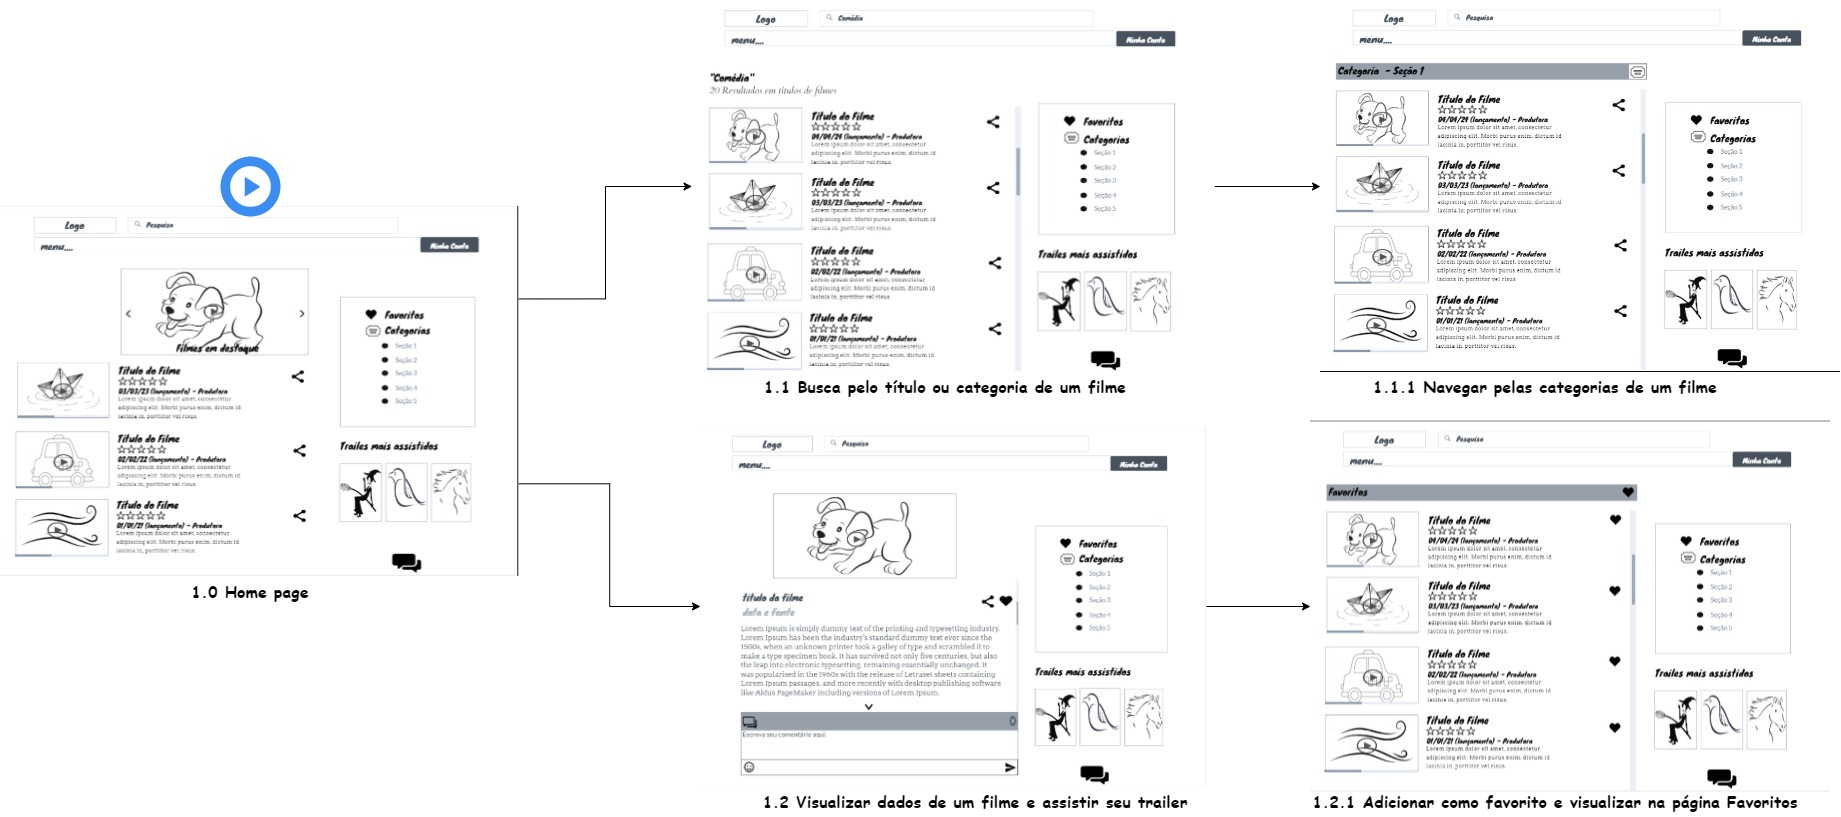
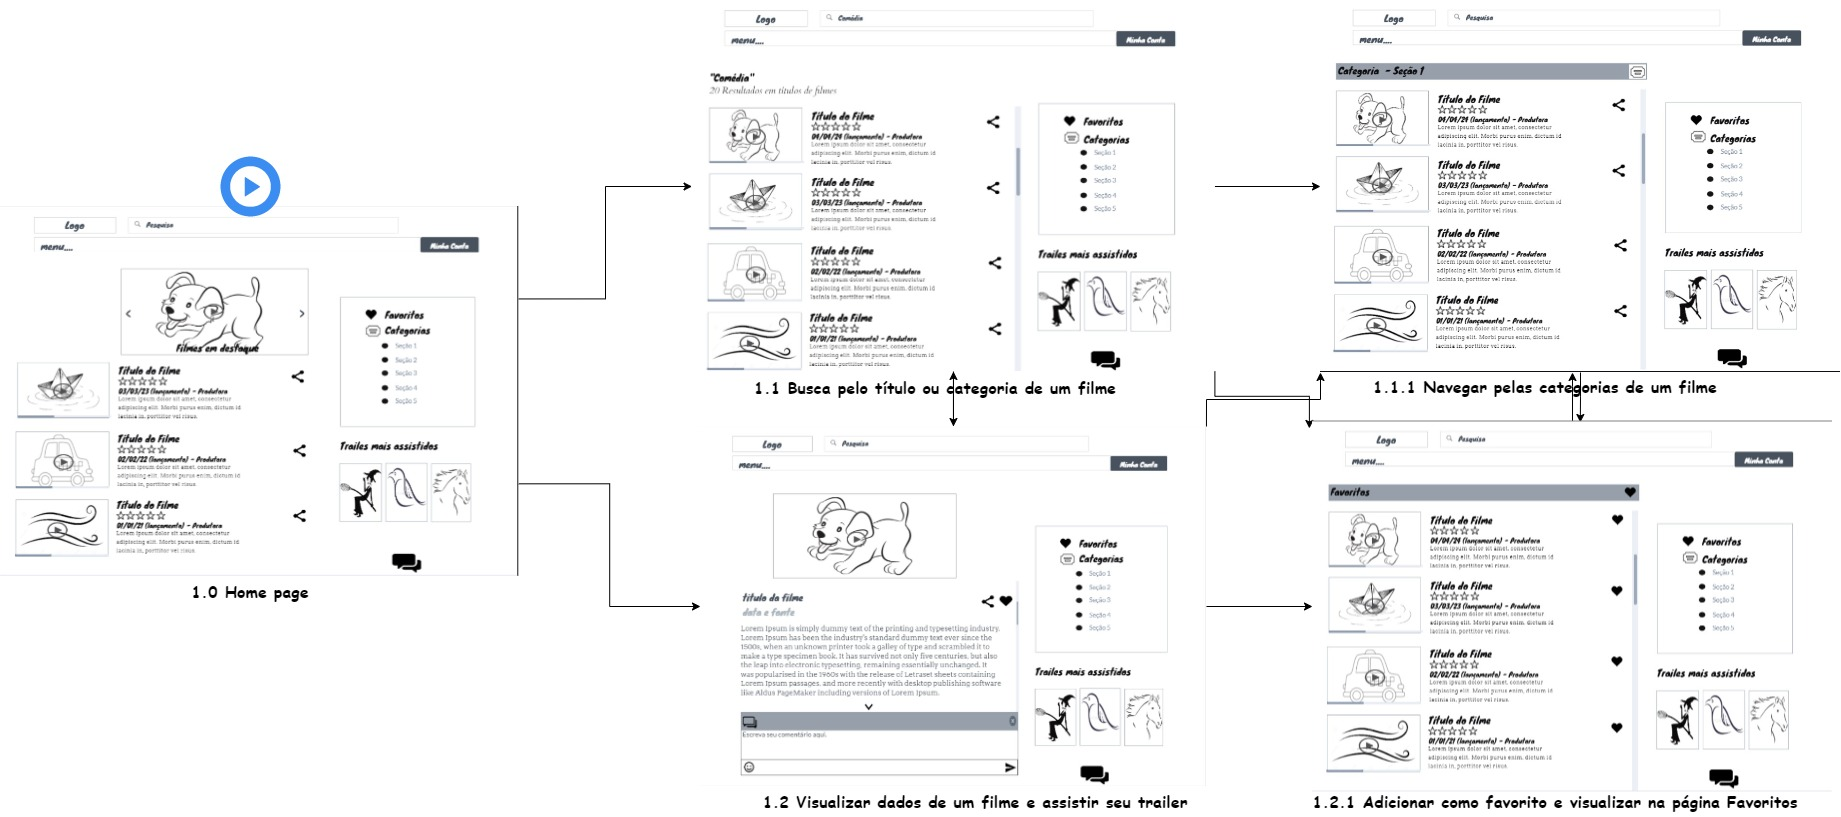
parte 05 fluxo do usuario

diff --git a/docs/05-Arquitetura da Solução.md b/docs/05-Arquitetura da Solução.md
@@ -28,32 +28,30 @@ A solução implementada para o front-end da aplicação, conta com os seguintes
  - **Hospedagem** - local na Internet onde as páginas são mantidas e acessadas pelo navegador. 
 
 ## Diagrama de solução
-Inclua um diagrama da solução e descreva os módulos e as tecnologias que fazem parte da solução. Discorra sobre o diagrama.
-Diagrama que permite analisar o fluxo de acesso ade um usuário e , através da visão dos seus componentes e relacionamentos entre os mesmos.
+
+Diagrama que permite analisar o fluxo de acesso de um usuário e, através da visão dos seus componentes e relacionamentos entre os mesmos.
 
 A imagem a seguir ilustra a o fluxo do usuário em nossa solução. Assim
-que o usuário entra na plataforma, ele é apresentado à tela inicial
-(Tela 1) onde ele é confrontado com as opões de editar seu perfil ou
-então visualizar sua galeria.
+que o usuário entra no site, ele é apresentado à tela inicial
+(Tela 1.0) onde ele é confrontado com as opões de pesquisar um título/categoria ou
+então visualizar os dados um filme em destaque.
 
-Caso ele opte por seguir pelo primeiro caminho (Editar Perfil), ele é
-redirecionado para a tela de edição de perfil (Tela 2), onde pode
-atualizar seus dados cadastrais. Nessa tela, o usuário também pode
-escolher para editar sua foto de perfil. Ao selecionar essa opção, ele é
-redirecionado para a Tela 3, onde ele a imagem expandida do perfil do
-usuário é mostrado. Ao selecionar a opção para atualizar a imagem, uma
-nova janela abre pedindo para o usuário fazer o upload da nova foto.
-Assim que o processo termina um pop-up exibe o status para o usuário
-(Tela 4) e o usuário é redirecionado para a Tela 2.
+Caso ele opte por seguir pelo primeiro caminho (pesquisar um título/categoria), ele é
+redirecionado para a tela de com os resultados da pesquisa (Tela 1.1), onde pode
+encontrar um filme pela busca e ir para a página de visualizar os dados de um filme (Tela 1.2). 
+Ao selecionar uma categoria na opção categorias, ele é redirecionado para a Tela 1.1.1, 
+onde e mostrado os resultados de filmes por categoria.
+Nessa tela, o usuário também pode escolher visualizar os favoritos. Ao selecionar essa opção, 
+ele é redirecionado para a Tela 1.2.1, onde é mostrado ao usuário todos os filmes marcados com
+o símbolo de coração (favoritos). 
 
-Caso o usuário opte seguir pelo segundo caminho (Visualizar Galeria) ele
-é redirecionado para a Tela 5 com todas as fotos que o usuário possui. O
-usuário pode clicar em um post qualquer para visualizar os detalhes do
-post (Tela 6). Nessa tela, ele pode então escolher editar o post, sendo
-redirecionado para a Tela 7. Ao editar as informações, o usuário pode
-escolher salvar ou deletar o post. Em ambos os casos o status é
-notificado para o usuário (Tela 8) e em seguida ele é redirecionado
-para a Tela 2.
+Caso o usuário opte seguir pelo segundo caminho (visualizar os dados um filme em destaque) ele
+é redirecionado para a Tela 1.2 com todas as informações sobre um determinado filme e seu trailer. O
+usuário pode escolher visualizar os favoritos. Ao selecionar essa opção, 
+ele é redirecionado para a Tela 1.2.1, onde é mostrado ao usuário todos os filmes marcados com
+o símbolo de coração (favoritos). 
+Nessa tela, o usuário também pode realizar uma pesquisa sendo redirecionado para a tela de com os
+resultados da pesquisa (Tela 1.1), visualizando uma lista de filmes com a palavra digitada.
 
 ![Fluxo do usuário](img/userflow.jpg)
 <center>Figura 13 - Fluxo do usuário</center>
